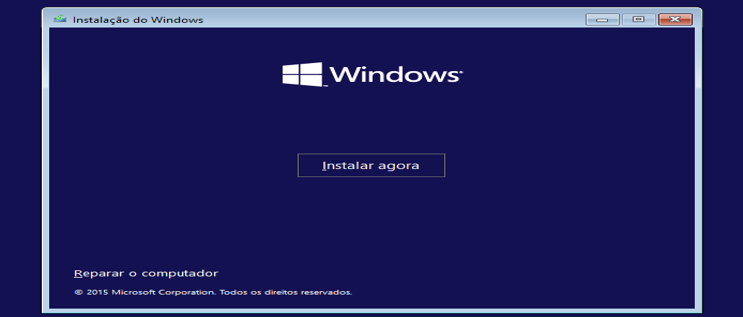
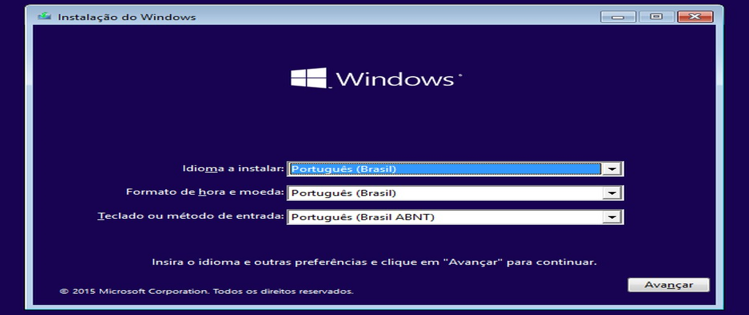
Add files via upload

Changed region(s): [[0.031, 0.0, 0.9906, 1.0], [0.1238, 0.4571, 0.8358, 0.7143], [0.3715, 0.1714, 0.6191, 0.2857]]

diff --git a/formatar.py b/formatar.py
@@ -1,6 +1,7 @@
 from tkinter import *
 from tkinter import messagebox
 import tkinter as tk
+from tkinter import ttk
 
 class Tela:
 
@@ -9,19 +10,62 @@ class Tela:
 
         janela.destroy()
         exit()
+
+    
         
-            
+    
+
+    def fecharPc(self, event):
+        
+      
+
+        self.imgg2.place_forget()
+        self.lbGabinete.config(bg="white")
+        lbMonitor.place(x=100, y=30)
+        self.imggg.place_forget()
+
+        self.imgg3.place_forget()
+        
+
+        self.imgg4.place_forget()
+        
+
+        self.imgg5.place_forget()
+       
+
+        self.imgg6.place_forget()
+       
+
+        self.imgg7.place_forget()
+        
+
+        self.imgg8.place_forget()
+       
+
+        self.imgg9.place_forget()
+        
+
+
+
     def __init__(self, master):
 
+        global lbMonitor
         monitor = PhotoImage(file="monitor.png")
-        lbMonitor = Label(janela, image=monitor)
+        lbMonitor = Label(image=monitor)
         lbMonitor.monitor = monitor
         lbMonitor.place(x=100, y=30)
 
+        gabinete = PhotoImage(file="gabinete.png")
+        self.lbGabinete = Label(janela, image=gabinete)
+        self.lbGabinete.gabinete = gabinete
+        self.lbGabinete.place(x=970, y=285)
+        self.lbGabinete.bind("<Enter>", self.abrirPc)
+        self.lbGabinete.bind("<Leave>", self.fecharPc)
+
         teclado = PhotoImage(file="teclado.png")
-        lbMonitor = Label(janela, image=teclado)
-        lbMonitor.teclado = teclado
-        lbMonitor.place(x=50, y=530)
+        lbTeclado = Label(janela, image=teclado)
+        lbTeclado.teclado = teclado
+        lbTeclado.place(x=50, y=530)
 
         delete = PhotoImage(file="delete.png")
         lbDelete = Label(janela, image=delete)
@@ -30,13 +74,79 @@ class Tela:
         lbDelete.bind("<Button-1>", self.bios)
         lbDelete.place(x=842, y=722)
 
-        self.sair = Button(janela, text="X")
-        self.sair["font"] = ("Arial", "19")
+        self.sair = Button(janela, text="[X]")
+        self.sair["font"] = ("Arial", "15")
         self.sair.config(bg="red", foreground="white")
-        self.sair.place(x=1100, y=30)
+        self.sair.place(x=1200, y=30)
         self.sair.bind("<Button-1>", self.fechar)
-        
 
+    def abrirPc(self, event):
+        global lbMonitor
+
+        lbMonitor.place(x=1800, y=10)
+
+        gabineteAberto = PhotoImage(file="gabineteAberto.png")
+        self.imggg = Label(janela, image=gabineteAberto)
+        self.imggg.gabineteAberto = gabineteAberto
+        self.lbGabinete.config(bg="green")
+        self.imggg.place(x=30,y=100)
+
+        hd = PhotoImage(file="hd.png")
+        self.imgg2 = Label(janela, image=hd)
+        self.imgg2.hd = hd
+        self.imgg2.config(bg="green")
+        self.lbGabinete.config(bg="green")
+        self.imgg2.place(x=500,y=30)
+
+        fonte = PhotoImage(file="fonte.png")
+        self.imgg3 = Label(janela, image=fonte)
+        self.imgg3.fonte = fonte
+        self.imgg3.config(bg="green")
+        self.lbGabinete.config(bg="green")
+        self.imgg3.place(x=650,y=30)
+
+        cpu = PhotoImage(file="cpu.png")
+        self.imgg4 = Label(janela, image=cpu)
+        self.imgg4.cpu = cpu
+        self.imgg4.config(bg="green")
+        self.lbGabinete.config(bg="green")
+        self.imgg4.place(x=800,y=30)
+
+        placa = PhotoImage(file="placa.png")
+        self.imgg5 = Label(janela, image=placa)
+        self.imgg5.placa = placa
+        self.imgg5.config(bg="green")
+        self.lbGabinete.config(bg="green")
+        self.imgg5.place(x=500,y=200)
+
+        memoria = PhotoImage(file="memoria.png")
+        self.imgg6 = Label(janela, image=memoria)
+        self.imgg6.memoria = memoria
+        self.imgg6.config(bg="green")
+        self.lbGabinete.config(bg="green")
+        self.imgg6.place(x=650,y=200)
+
+        sata = PhotoImage(file="sata.png")
+        self.imgg7 = Label(janela, image=sata)
+        self.imgg7.sata = sata
+        self.imgg7.config(bg="green")
+        self.lbGabinete.config(bg="green")
+        self.imgg7.place(x=800,y=200)
+
+        cooler = PhotoImage(file="cooler.png")
+        self.imgg8 = Label(janela, image=cooler)
+        self.imgg8.cooler = cooler
+        self.imgg8.config(bg="green")
+        self.lbGabinete.config(bg="green")
+        self.imgg8.place(x=500,y=370)
+
+        gpu = PhotoImage(file="gpu.png")
+        self.imgg9 = Label(janela, image=gpu)
+        self.imgg9.gpu = gpu
+        self.imgg9.config(bg="green")
+        self.lbGabinete.config(bg="green")
+        self.imgg9.place(x=650,y=370)
+    
 
     def bios(self, event):
 
@@ -63,7 +173,7 @@ class Tela:
         self.p2.place(x=80, y=100)
         
         #Label 2
-        self.p3 = tk.Label(janela2,foreground="#FFD700",background="#00008B",text="> Advanced BIOS Features")
+        self.p3 = tk.Label(janela2,foreground="yellow",background="red",text="> Advanced BIOS Features")
         self.p3["font"] = ("Lucida Console","15")
         self.p3.place(x=80, y=140)
         self.p3.bind("<Button-1>", self.bios2)
@@ -165,6 +275,7 @@ class Tela:
         janela2.title("BIOS")
         janela2.geometry("880x640+200+30")
         janela2.config(bg="#00008B")
+        janela2.config(cursor="hand2")
         janela2.resizable(width=False, height=False)
         janela2.mainloop()
 
@@ -373,12 +484,155 @@ class Tela:
 
     def boot(self,event):
 
-        messagebox.showinfo("BOOT PELO PENDRIVE", "REINICIANDO E INICIANDO INSTALAÇÃO")
-
+        messagebox.showinfo("WINDOWS 10", "Iniciando instalação...")
         w1 = PhotoImage(file="w1.png")
         self.img1 = Label(janela, image=w1)
         self.img1.w1 = w1
-        self.img1.place(x=126, y=53)
+        self.img1.place(x=123, y=50)
+
+        abnts = ["(Português Brasil ABNT-2)", "(Português Brasil ABNT)"]
+        abnt = ttk.Combobox(values=abnts)
+        abnt.set("(Português Brasil ABNT)")
+        abnt.place(x=412, y=262, width=337, height=22)
+
+        btAvancar = PhotoImage(file="btAvancar.png")
+        self.img2 = Label(janela, image=btAvancar)
+        self.img2.btAvancar = btAvancar
+        self.img2.place(x=740, y=324)
+        self.img2.bind("<Button-1>", self.avancar)
+
+    def avancar(self, event):
+        w2 = PhotoImage(file="w2.png")
+        self.img3 = Label(janela, image=w2)
+        self.img3.w2 = w2
+        self.img3.place(x=123, y=50)
+
+        btInstalar = PhotoImage(file="btInstalar.png")
+        self.img4 = Label(janela, image=btInstalar)
+        self.img4.btInstalar = btInstalar
+        self.img4.place(x=400, y=205)
+        self.img4.bind("<Button-1>", self.instalar)
+
+    def instalar(self, event):
+
+        w3 = PhotoImage(file="w3.png")
+        self.img5 = Label(janela, image=w3)
+        self.img5.w3 = w3
+        self.img5.place(x=113, y=52)
+
+        chave = PhotoImage(file="chave.png")
+        self.img6 = Label(janela, image=chave)
+        self.img6.chave = chave
+        self.img6.place(x=485, y=290)
+        self.img6.bind("<Button-1>", self.chaveW)
+
+        btAvancar2 = PhotoImage(file="btAvancar2.png")
+        self.img7 = Label(janela, image=btAvancar2)
+        self.img7.btAvancar2 = btAvancar2
+        self.img7.place(x=726, y=300)
+        self.img7.bind("<Button-1>", self.avancar2)
+
+    def chaveW(self, event):
+
+        self.img6.config(bg="lightblue")
+
+        
+    def avancar2(self, event):
+
+        w4 = PhotoImage(file="w4.png")
+        self.img8 = Label(janela, image=w4)
+        self.img8.w4 = w4
+        self.img8.place(x=112, y=49)
+
+        btAvancar3 = PhotoImage(file="btAvancar3.png")
+        self.img9 = Label(janela, image=btAvancar3)
+        self.img9.btAvancar3 = btAvancar3
+        self.img9.place(x=726, y=300)
+        self.img9.bind("<Button-1>", self.avancar3)
+
+    def avancar3(self, event):
+
+        w5 = PhotoImage(file="w5.png")
+        self.img10 = Label(janela, image=w5)
+        self.img10.w5 = w5
+        self.img10.place(x=112, y=49)
+
+        btAvancar4 = PhotoImage(file="btAvancar4.png")
+        self.img11 = Label(janela, image=btAvancar4)
+        self.img11.btAvancar4 = btAvancar4
+        self.img11.place(x=726, y=305)
+        self.img11.bind("<Button-1>", self.avancar4)
+
+    def avancar4(self, event):
+
+        w6 = PhotoImage(file="w6.png")
+        self.img12 = Label(janela, image=w6)
+        self.img12.w6 = w6
+        self.img12.place(x=112, y=49)
+
+        personalizada = PhotoImage(file="personalizada.png")
+        self.img13 = Label(janela, image=personalizada)
+        self.img13.personalizada = personalizada
+        self.img13.place(x=206, y=205)
+        self.img13.bind("<Button-1>", self.avancar5)
+
+    def avancar5(self, event):
+
+        w7 = PhotoImage(file="w7.png")
+        self.img14 = Label(janela, image=w7)
+        self.img14.w7 = w7
+        self.img14.place(x=112, y=49)
+
+        formatar = PhotoImage(file="formatar.png")
+        self.img15 = Label(janela, image=formatar)
+        self.img15.formatar = formatar
+        self.img15.place(x=460, y=238)
+        self.img15.bind("<Button-1>", self.formatarW)
+
+        btAvancar6 = PhotoImage(file="btAvancar6.png")
+        self.img16 = Label(janela, image=btAvancar6)
+        self.img16.btAvancar6 = btAvancar6
+        self.img16.place(x=726, y=310)
+        self.img16.bind("<Button-1>", self.avancar6)
+    
+    def formatarW(self, event):
+
+        messagebox.showwarning("Formatação Windows 10", "TODOS OS DADOS DESSA PARTIÇÃO SERÃO EXCLUÍDOS !!")
+
+    
+    def avancar6(self, event):
+
+        w8 = PhotoImage(file="w8.png")
+        self.img18 = Label(janela, image=w8)
+        self.img18.w8 = w8
+        self.img18.place(x=112, y=49)
+        self.img18.bind("<Button-1>", self.win)
+
+    def win(self, event):
+
+        w9 = PhotoImage(file="w9.png")
+        self.img19 = Label(janela, image=w9)
+        self.img19.w9 = w9
+        self.img19.place(x=112, y=49)
+        self.img19.bind("<Button-1>", self.win10)
+
+    def win10(self, event):
+
+        w10 = PhotoImage(file="w10.png")
+        self.img20 = Label(janela, image=w10)
+        self.img20.w10 = w10
+        self.img20.place(x=112, y=49)
+        
+        
+    
+
+        
+    
+        
+
+        
+        
+        
 
     
 
